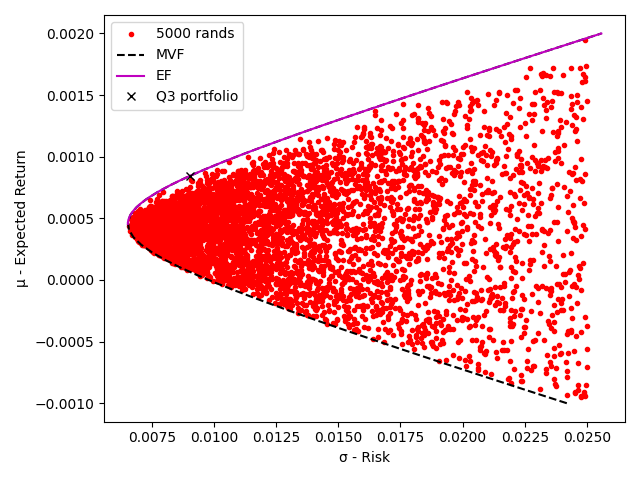
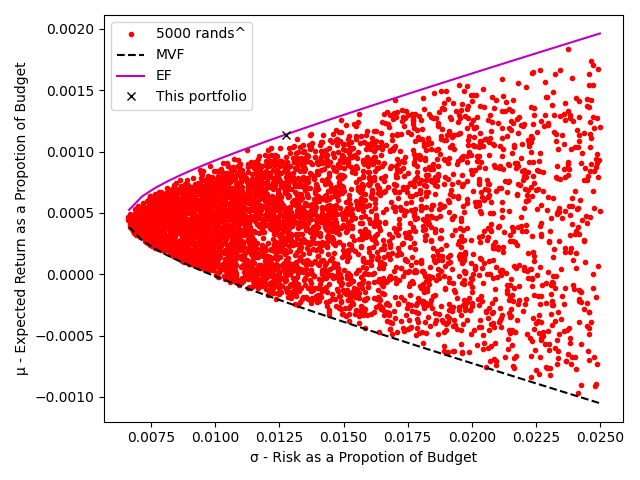
main parts done

diff --git a/report.html b/report.html
@@ -22,20 +22,21 @@
   <div class="section">
     <div class="right">
       <h2>Portfolio Specifications</h2>
-      <p>Risk aversion level: 5 out of 10 (t = 0.1)</p>
-      <p>Budget: $500.00</p>
+      <p>Risk indifference level: 5 out of 10 (t = 0.175)</p>
+      <p>Budget: $10000.00</p>
       <p>Short selling ALLOWED</p>
       
       <h2>Portfolio statistics</h2>
-      <p>This portfolio has an expected return of: $0.42 per day</p>
-      <p>This portfolio has risk: $4.52</p>
+      <p>This portfolio has an expected return of: $11.38 per day</p>
+      <p>This portfolio has risk of: $127.38</p>
+      <p>Risk is defined as 1 standard deviation (68% CI)</p>
 
       <h2>Optimal portfolio</h2>
-				<p>Invest $180.27 into BHP</p>
-				<p>Invest $12.75 into CSL</p>
-				<p>Shortsell $60.56 into NAB</p>
-				<p>Shortsell $80.62 into TCL</p>
-				<p>Invest $448.16 into TLS</p>
+				<p>Invest $5294.81 into BHP</p>
+				<p>Short Sell $733.18 into CSL</p>
+				<p>Short Sell $2893.96 into NAB</p>
+				<p>Short Sell $4206.02 into TCL</p>
+				<p>Invest $12538.35 into TLS</p>
 
       
     </div>
@@ -44,6 +45,9 @@
       <h2>Plot of randomly generated portfolios</h2>
     
       <img src="sd-mu_plot.png" alt="Description of the image">
+      <p>^5000 random portfolios generated, and their risks/returns plotted.</p>
+      <p>This portfolio was generated with <a href="https://en.wikipedia.org/wiki/Modern_portfolio_theory">Markowitz's Modern Portfolio Theory.</a></p>
+      <p>This program is designed solely for educational purposes. The author explicitly disclaims any responsibility for any financial or other losses that may arise from the use of this program.</p>
     </div>
 
   

diff --git a/portfolio_generator.py b/portfolio_generator.py
@@ -3,12 +3,19 @@ import pandas as pd
 import matplotlib.pyplot as plt
 import scipy.stats as stats
 from scipy.optimize import fsolve, minimize
+from typing import Tuple
+
+np.seterr(invalid='ignore')
 
 PLOT_PNG_NAME = "sd-mu_plot.png"
 REPORT_NAME = "report.html"
-T_SCALE = 0.02
+T_SCALE = 0.035
+STOCKS_CSV_NAME = "stock_prices.csv"
+SIGMA_GRAPH_RANGE = 0.025
+NUMBER_OF_RANDOM_PORTFOLIOS = 5000
 
-def get_risk_param_and_money():
+
+def get_risk_param_and_money() -> Tuple[float, float, bool]:
   '''
   get risk parameter t from user and their wealth 
   and their short selling prefernce
@@ -55,7 +62,7 @@ def get_risk_param_and_money():
     print("Please type either 'Y' or 'N'")
     
 
-def find_r_and_C(f_location):
+def find_r_and_C(f_location: str) -> Tuple[np.ndarray, np.ndarray, Tuple[str]]:
   '''
   compute and returns mean vector r and correlation matrix cov from csv data
   '''
@@ -63,9 +70,12 @@ def find_r_and_C(f_location):
   data = pd.read_csv(f_location, parse_dates=['Date'], date_format='%d/%m/%Y')
 
   # label stock names to be read by for loop
-  stock_names = ("BHP", "CSL", "NAB", "TCL", "TLS")
+  stock_names = tuple(data.columns.tolist()[1:])
 
-  # create matrix of arrays of all 5 stock returns
+  if len(stock_names) <= 1:
+    raise Exception("CSV File Provided has < 2 stocks to compare")
+
+  # create matrix of arrays of all stock returns
   returns = []
   for i in stock_names:
     returns.append((data[i]/data[i].shift(1) - 1)[1:])
@@ -74,7 +84,7 @@ def find_r_and_C(f_location):
   # calculate mean vector and covarience matrix
   return np.mean(returns, axis=1), np.cov(returns), stock_names
 
-def compute_coefficients(r, cov):
+def compute_coefficients(r: np.ndarray, cov: np.ndarray) -> Tuple[float, float, float, float, np.ndarray, np.ndarray, np.ndarray]:
   '''
   computes coefficients for critical line equation
   critical line determines optimal portfolio given a certain risk aversity
@@ -106,7 +116,7 @@ def compute_coefficients(r, cov):
 
   return a, b, c, d, e, alpha, beta, c_inv
 
-def crit_line(t, r, cov, ss, alpha, beta, e):
+def crit_line(t: float, r: np.ndarray, cov: np.ndarray, ss: bool, alpha: np.ndarray, beta: np.ndarray, e: np.ndarray):
   '''
   computes optimal proportions of budget x = alpha + t * beta
   '''
@@ -123,10 +133,10 @@ def crit_line(t, r, cov, ss, alpha, beta, e):
   bounds = [(0, None), (0, None), (0, None), (0, None), (0, None)]
 
   con = [{"type": "eq", "fun": budget}] # declaring budget is equality constraint
-  x_init = alpha # arbitrary starting point
+  x_init = alpha + t * beta # arbitrary starting point
   return minimize(obj_Z, x_init, bounds=bounds, constraints=con).x # scipy
 
-def compute_mean_sd(x, r, cov):
+def compute_mean_sd(x: np.ndarray, r: np.ndarray, cov: np.ndarray) -> Tuple[float, float]:
   '''
   computes portfolio mean = x^T @ r, and sd = sqrt(x^T @ C @ x)
   assuming data is normally distributed, empirical return of this portfolio
@@ -134,16 +144,15 @@ def compute_mean_sd(x, r, cov):
   '''
   return np.dot(x, r), np.dot(x, cov @ x) ** 0.5
 
-def generate_random_portfolios(r, cov):
+def generate_random_portfolios(r: np.ndarray, cov: np.ndarray, ss: bool) -> Tuple[Tuple[float], Tuple[float]]:
   '''
   create 5000 random portfolios to plot onto graph
   returns tuple of means and tuple of sds of 5000 random portfolios
   '''
 
   # define arbitrary bounds
-  lower = -100
+  lower = -100 if ss else 0
   upper = 100
-  number_of_generates = 5000
   # plot 5000 random portfolios
 
   # generate 5 random numbers between arbitrary bounds, 5000 times
@@ -151,8 +160,8 @@ def generate_random_portfolios(r, cov):
   i = 0
   mu_rand_list = []
   sig_rand_list = []
-  while i < number_of_generates:
-    x_rand = np.random.uniform(low=lower, high=upper, size=5)
+  while i < NUMBER_OF_RANDOM_PORTFOLIOS:
+    x_rand = np.random.uniform(low=lower, high=upper, size=len(r))
     x_rand /= x_rand.sum() # divide each by sum so sum of 5 numbers = 1
     mu_rand = np.dot(x_rand, r) # mu = x^Tr
     sig_rand = np.dot(x_rand, cov @ x_rand) ** 0.5 # sigma = sqrt(x^TCx)
@@ -164,7 +173,7 @@ def generate_random_portfolios(r, cov):
   return tuple(sig_rand_list), tuple(mu_rand_list)
 
 
-def plot_mu_sigma(a, b, d, mean, sd, r, cov):
+def plot_mu_sigma(a: float, b: float, d: float, mean: float, sd: float, r: np.ndarray, cov: np.ndarray, ss: bool) -> None:
   '''
   create and save png of plot to be displayed in html document with:
   5000 random portfolios
@@ -173,30 +182,35 @@ def plot_mu_sigma(a, b, d, mean, sd, r, cov):
   User's portfolio, calculated previously
   Minimum risk portfolio (vertex of hyperbola)
   '''
-  sig_rand_tup, mu_rand_tup = generate_random_portfolios(r, cov)
-  plt.plot(sig_rand_tup, mu_rand_tup, 'r.', label="5000 rands")
+  sig_rand_tup, mu_rand_tup = generate_random_portfolios(r, cov, ss)
+  plt.plot(sig_rand_tup, mu_rand_tup, 'r.', label=f"{NUMBER_OF_RANDOM_PORTFOLIOS} rands^")
 
   # MVF and EF respectivly
   # MVF: sigma^2 = 1/a + a/d(mu -b/a)^2
-  mu = np.linspace(-0.001, 0.002)
-  sigma = (1 / a + a * (mu - b/a)**2 / d) ** 0.5
+  sigma = np.linspace(0, SIGMA_GRAPH_RANGE)
+  mu = b / a - (d * (sigma ** 2 - 1 / a) / a) ** 0.5
+
+  #mu = np.linspace(-0.001, 0.002)
+  #sigma = (1 / a + a * (mu - b/a)**2 / d) ** 0.5
   plt.plot(sigma, mu, 'k--', label="MVF")
 
   # EF: top half of hyperbola --> mu >= b/a
-  mu = np.linspace(b/a, 0.002)
-  sigma = (1 / a + a * (mu - b/a)**2 / d) ** 0.5
+  #mu = np.linspace(b/a, 0.002)
+  #sigma = (1 / a + a * (mu - b/a)**2 / d) ** 0.5
+
+  mu = b / a + (d * (sigma ** 2 - 1 / a) / a) ** 0.5
   plt.plot(sigma, mu, 'm', label="EF")
 
   # user's portfolio
-  plt.plot(sd, mean, 'kx', label="Q3 portfolio")
+  plt.plot(sd, mean, 'kx', label="This portfolio")
 
-  plt.xlabel('σ - Risk')
-  plt.ylabel('μ - Expected Return')
+  plt.xlabel('σ - Risk as a Propotion of Budget')
+  plt.ylabel('μ - Expected Return as a Propotion of Budget')
   plt.legend()
   plt.tight_layout()
   plt.savefig(PLOT_PNG_NAME)
 
-def create_abs_x(money, x):
+def create_abs_x(money: float, x: np.ndarray) -> Tuple[float]:
   '''
   scales up return propotion vector by budget
   '''
@@ -205,16 +219,16 @@ def create_abs_x(money, x):
     abs_x.append(i * money)
   return tuple(abs_x)
 
-def create_returns_string(abs_x, stock_names):
+def create_returns_string(abs_x: Tuple[float], stock_names: Tuple[str]) -> str:
   '''
   turns the investment vector into a readable string for the html
   '''
   invest = ""
   for i, amount in enumerate(abs_x):
-    invest += f"\t\t\t\t<p>{'Invest' if amount >= 0 else 'Shortsell'} ${abs(amount):.2f} into {stock_names[i]}</p>\n"
+    invest += f"\t\t\t\t<p>{'Invest' if amount >= 0 else 'Short Sell'} ${abs(amount):.2f} into {stock_names[i]}</p>\n"
   return invest
 
-def write_html(t, money, ss, abs_mean, abs_sd, stock_string):
+def write_html(t: float, money: float, ss: bool, abs_mean: float, abs_sd: float, stock_string: Tuple[str]) -> None:
   '''
   writes html with computed information
   '''
@@ -242,13 +256,14 @@ def write_html(t, money, ss, abs_mean, abs_sd, stock_string):
   <div class="section">
     <div class="right">
       <h2>Portfolio Specifications</h2>
-      <p>Risk aversion level: {round(t / T_SCALE)} out of 10 (t = {t})</p>
+      <p>Risk indifference level: {round(t / T_SCALE)} out of 10 (t = {t:.3f})</p>
       <p>Budget: ${money:.2f}</p>
       <p>Short selling{" " if ss else " NOT "}ALLOWED</p>
       
       <h2>Portfolio statistics</h2>
       <p>This portfolio has an expected return of: ${abs_mean:.2f} per day</p>
-      <p>This portfolio has risk: ${abs_sd:.2f}</p>
+      <p>This portfolio has risk of: ${abs_sd:.2f}</p>
+      <p>Risk is defined as 1 standard deviation (68% CI)</p>
 
       <h2>Optimal portfolio</h2>
 {stock_string}
@@ -259,6 +274,9 @@ def write_html(t, money, ss, abs_mean, abs_sd, stock_string):
       <h2>Plot of randomly generated portfolios</h2>
     
       <img src="sd-mu_plot.png" alt="Description of the image">
+      <p>^{NUMBER_OF_RANDOM_PORTFOLIOS} random portfolios generated{"" if ss else " with short selling NOT ALLOWED"}, and their risks/returns plotted.</p>
+      <p>This portfolio was generated with <a href="https://en.wikipedia.org/wiki/Modern_portfolio_theory">Markowitz's Modern Portfolio Theory.</a></p>
+      <p>This program is designed solely for educational purposes. The author explicitly disclaims any responsibility for any financial or other losses that may arise from the use of this program.</p>
     </div>
 
   
@@ -271,17 +289,16 @@ def write_html(t, money, ss, abs_mean, abs_sd, stock_string):
   f.close()
 
 
-def main():
+def main() -> None:
   t, money, ss = get_risk_param_and_money()
-  r, cov, stock_names = find_r_and_C('project_data.csv')
+  r, cov, stock_names = find_r_and_C(STOCKS_CSV_NAME)
   a, b, c, d, e, alpha, beta, c_inv = compute_coefficients(r, cov)
   x = crit_line(t, r, cov, ss, alpha, beta, e)
   mean, sd = compute_mean_sd(x, r, cov)
   abs_x = create_abs_x(money, x)
-  plot_mu_sigma(a, b, d, mean, sd, r, cov)
+  plot_mu_sigma(a, b, d, mean, sd, r, cov, ss)
   stock_string = create_returns_string(abs_x, stock_names)
   write_html(t, money, ss, mean * money, sd * money, stock_string)
-  print(mean, sd)
 
 if __name__ == "__main__":
   main()
